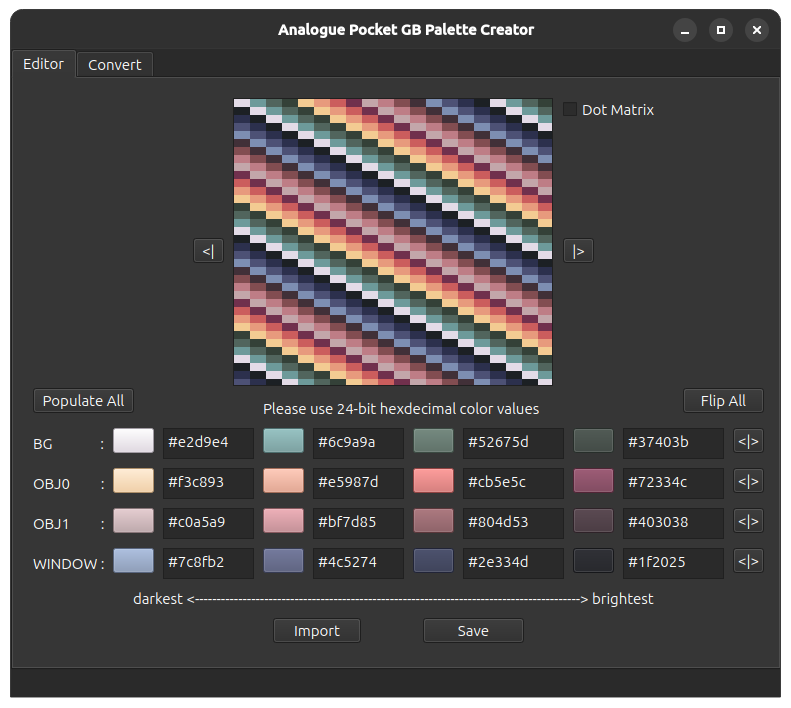
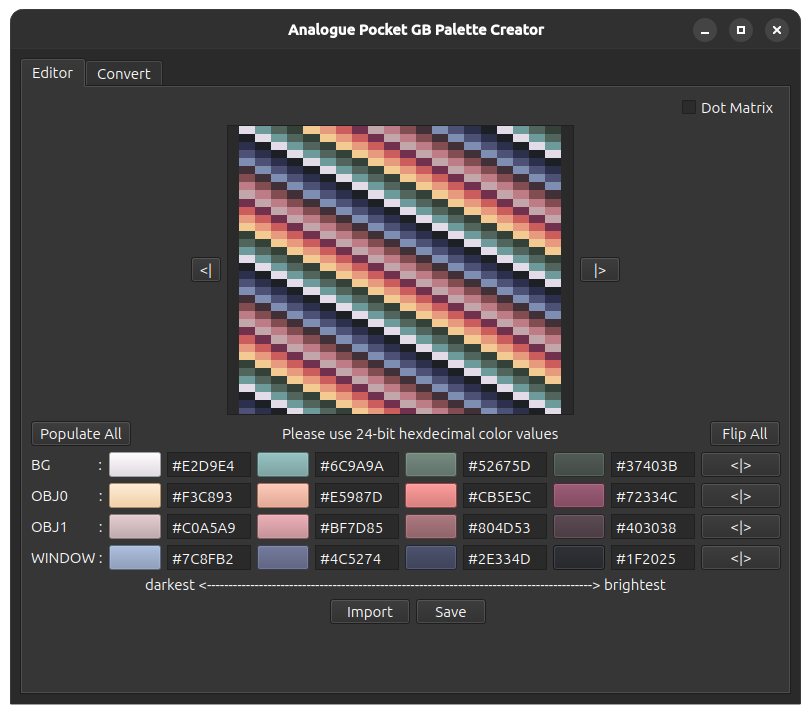
Fixed image view not refreshing properly and updated documentation.

diff --git a/mainwindow.cpp b/mainwindow.cpp
@@ -191,6 +191,7 @@ void MainWindow::updateImageView(int direction = 0){
     QPixmap imgView = QPixmap::fromImage(*image).scaled(ui->view_img->width(),
                                                         ui->view_img->height(),
                                                         Qt::KeepAspectRatio);
+    this->scene->clear();
     this->scene->addPixmap(imgView);
 }
 

diff --git a/TODOs.md b/TODOs.md
@@ -9,10 +9,9 @@ Future work for this project.
 ### Bug Fixes
 - When an incorrect color is given the color picker button still shows the previous color (during import)
 - Include error handling for files that could not be saved
-- Fix image view refresh ween decreasing window size after expansion
 
 ### Features
-- Make the application scale dynamically (along with the dynamic palette image viewer)
+- Dynamically scale image when window size is updating
 
 ### Optimizations
 - Find a more dynamic solution for finding the`image_view/` directory for the dynamic palette image viewer
@@ -31,3 +30,4 @@ The tasks that have been completed for the next release are as follows:
 - Tweaked converter text area (removed scrollbars and wrapping)
 - Fixed issue where autocomplete occurred when not source file was given
 - Introduced dynamic scaling to application
+- Fix image view refresh ween decreasing window size after expansion
